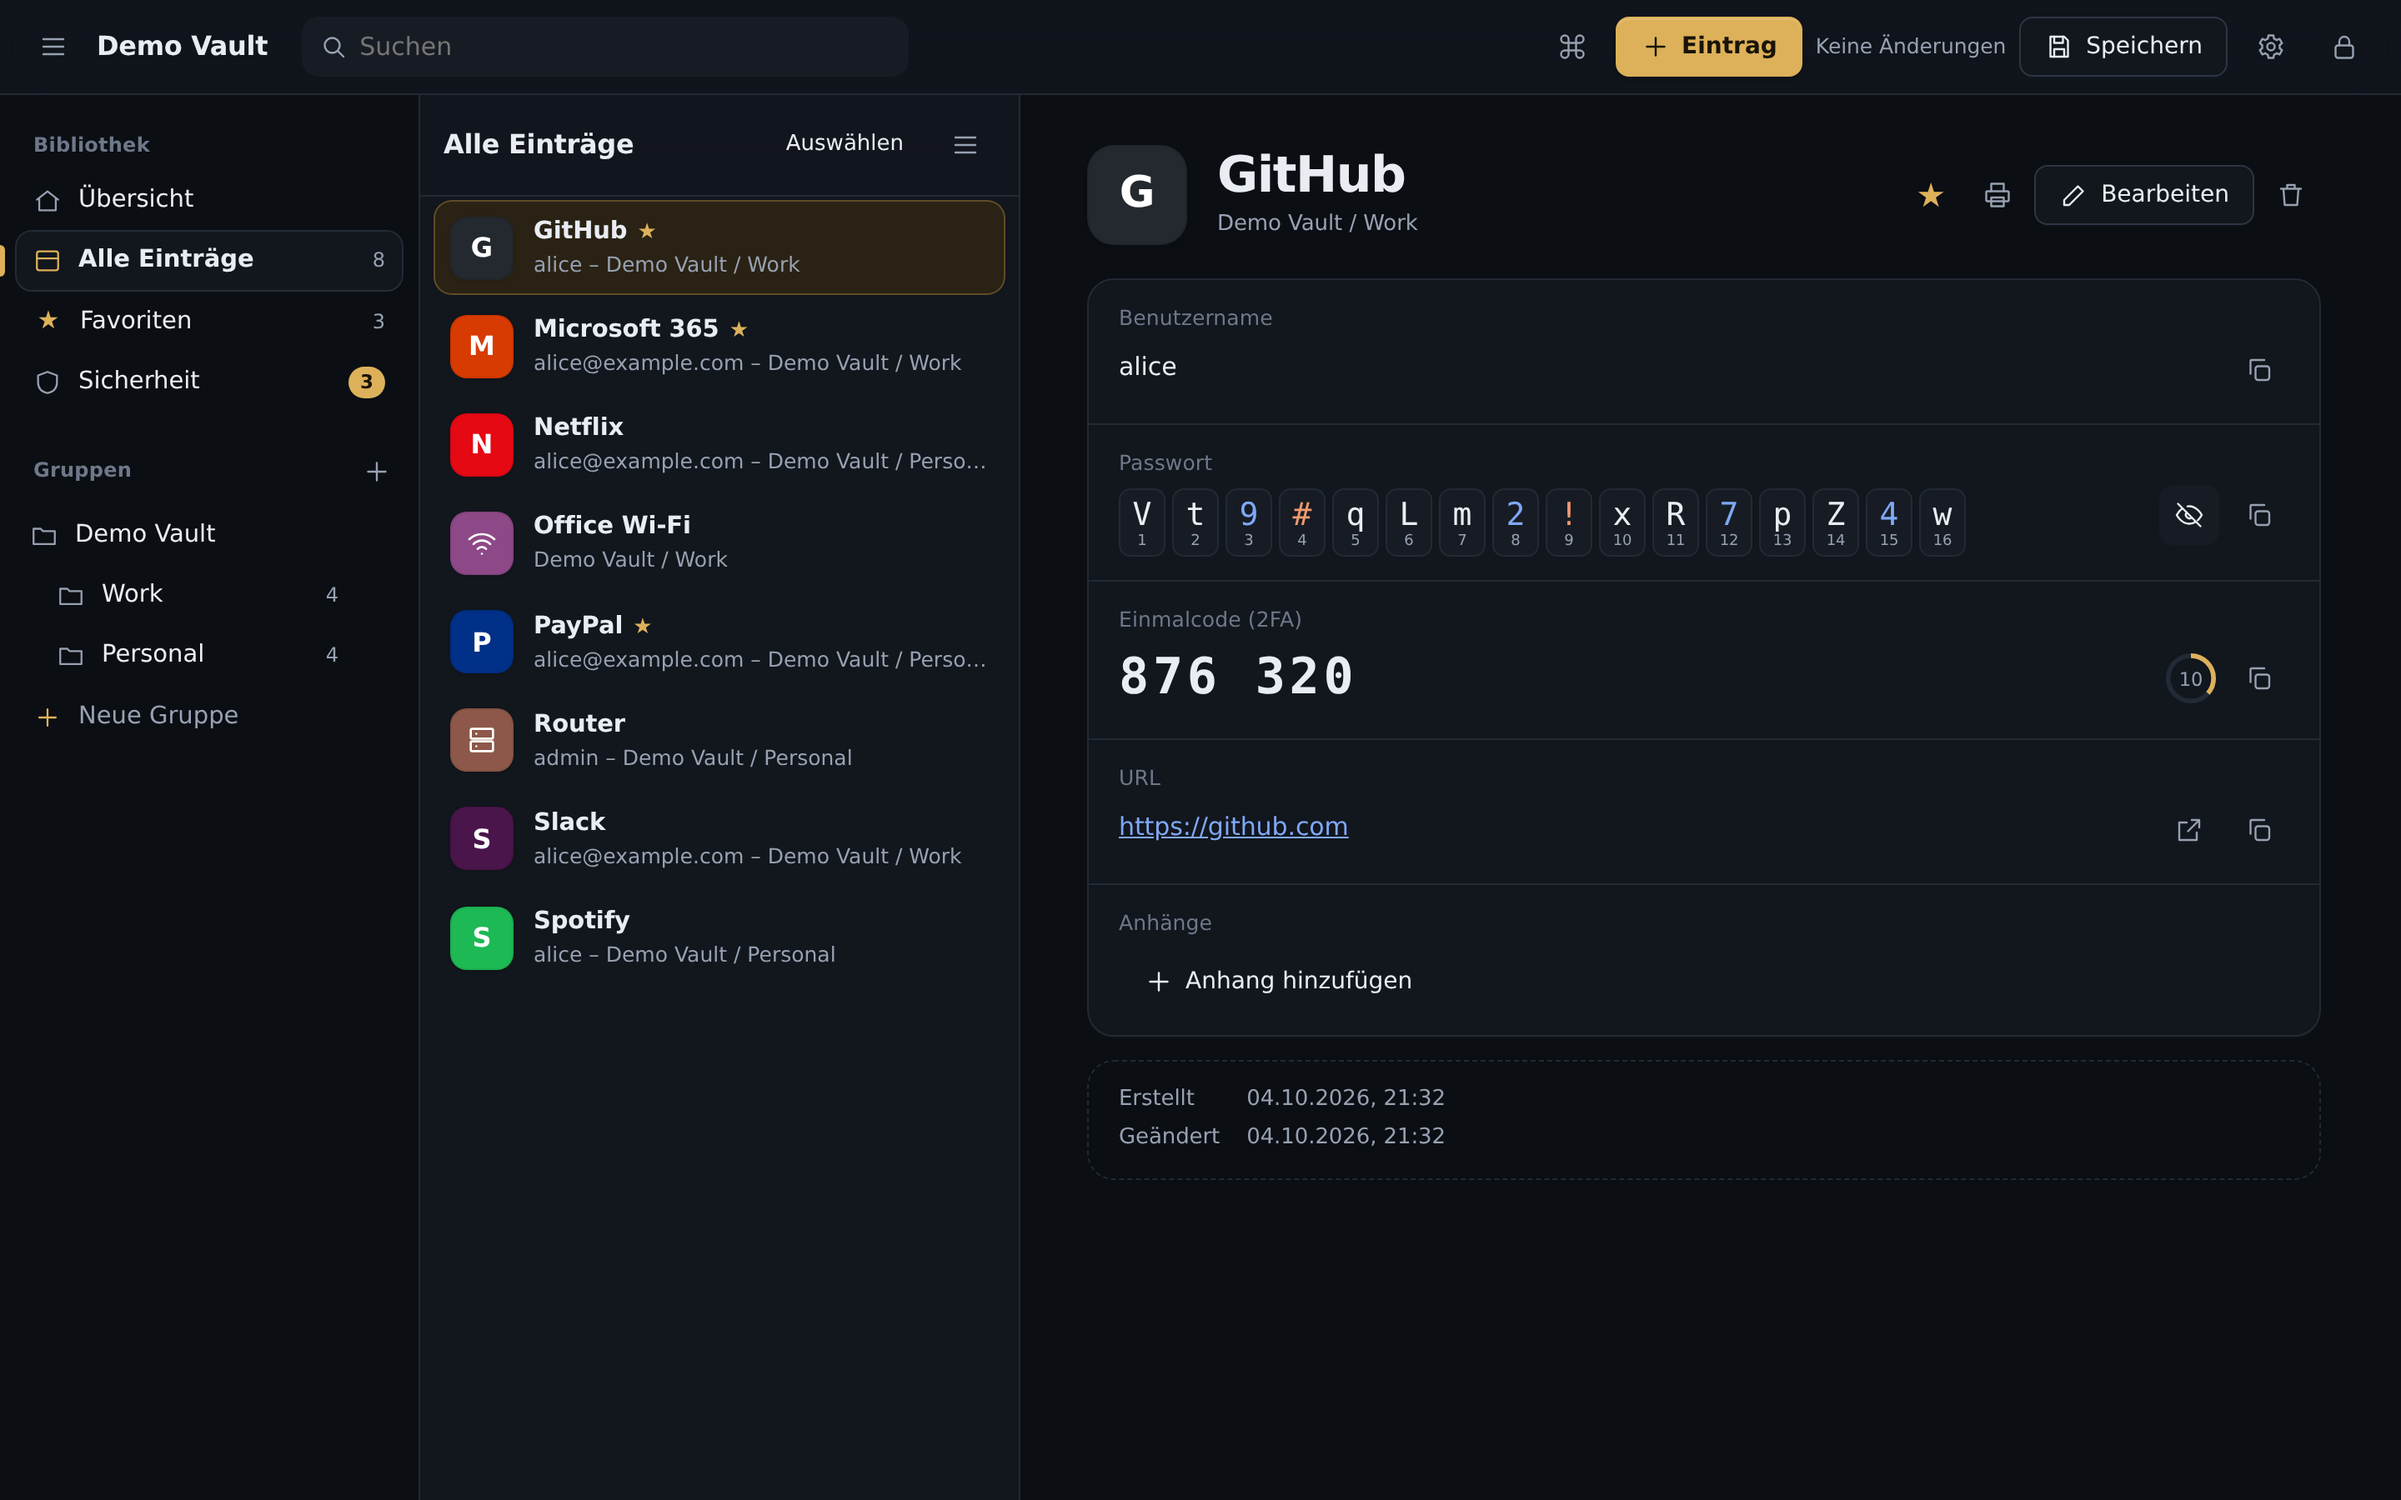
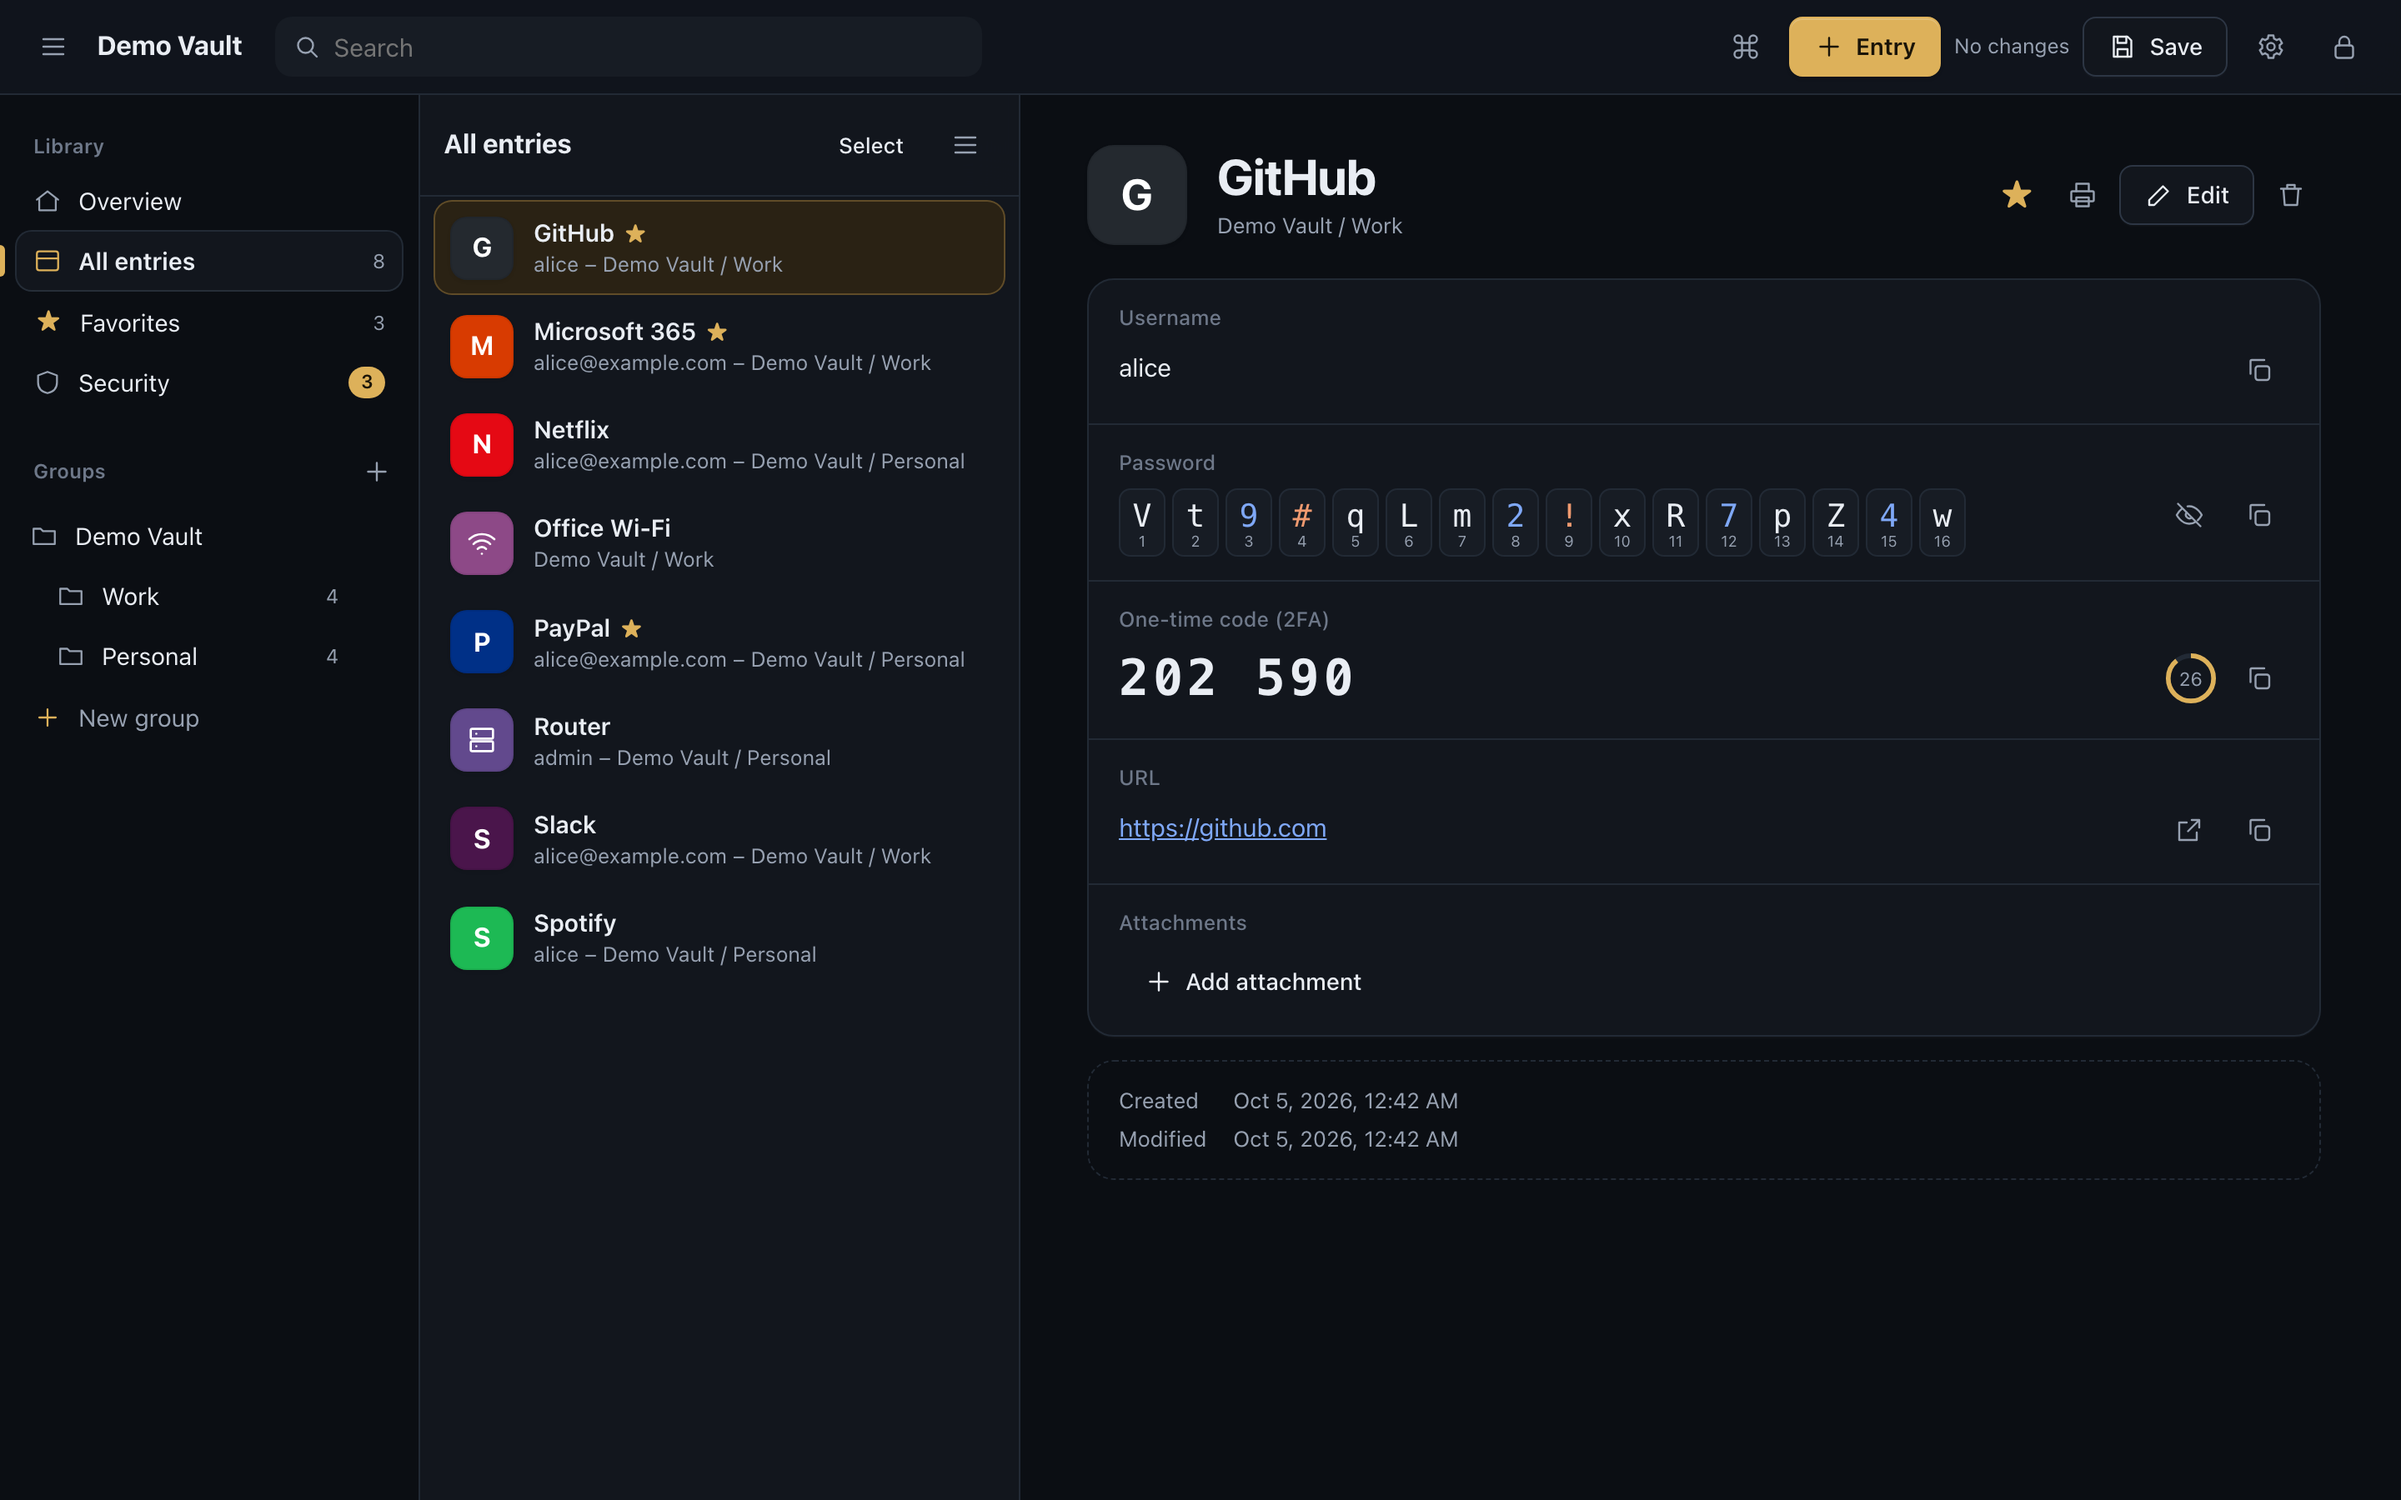
Use English screenshots and polish English wording
- Replace the README screenshots with the English interface
- "Entry"/"Entries" are capitalised as labels; counted nouns stay
  lower case in English ("3 entries")
- "Select" instead of "Choose" for multi-select and key file

diff --git a/src/ui/app6.js b/src/ui/app6.js
@@ -4,7 +4,8 @@
 // ===================== Runde 7: Gruppenverwaltung =====================
 const isUnderG=(g,anc)=>{for(let p=g;p;p=p.parent)if(p===anc)return true;return false;};
 function groupStats(g){let e=0,s=0;(function w(x){e+=X.kids(x,'Entry').length;for(const c of X.kids(x,'Group')){s++;w(c);}})(g);return {e,s};}
-const plural=(n,a,b)=>`${n} ${n===1?a:b}`;
+// Counted nouns: German keeps the capital, English uses lower case ("3 entries").
+const plural=(n,a,b)=>{const w=n===1?a:b;return `${n} ${LANG==='de'?w:w.toLowerCase()}`;};
 // ---- Kontextmenü einer Gruppe ----
 function groupMenu(g,anchor){if(!g)return;const dlg=$('dlg');const root=g===rootGroup(),bin=g===recycleBin(false);const perm=bin||inBin(g)||!binEnabled();const st=groupStats(g);
   const items=[

diff --git a/src/ui/i18n.js b/src/ui/i18n.js
@@ -88,7 +88,7 @@ const EN={
   'Name':'Name',
   'Wert':'Value',
   'Entfernen':'Remove',
-  'Auswählen':'Choose',
+  'Auswählen':'Select',
   'Keine':'None',
   'Bearbeiten':'Edit',
   'Drucken':'Print',
@@ -128,8 +128,8 @@ const EN={
   'Anhänge':'Attachments',
   'Gruppe':'Group',
   'Gruppen':'Groups',
-  'Eintrag':'entry',
-  'Einträge':'entries',
+  'Eintrag':'Entry',
+  'Einträge':'Entries',
   'Einträgen':'entries',
   'Untergruppe':'subgroup',
   'Untergruppen':'subgroups',
